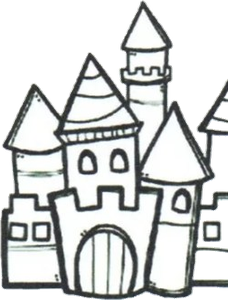
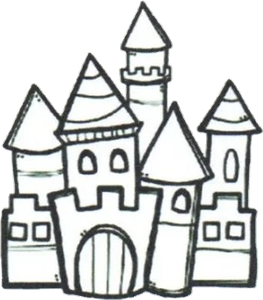
Atualiza a atividade

diff --git a/index.html b/index.html
@@ -2550,7 +2550,7 @@ var CART = {
 /* ⚠ A MARCA DE VERSÃO NA FIGURA. Quando eu troco uma figura, o NOME do arquivo
    continua o mesmo — e o navegador da escola serve a cópia velha do cache.
    REGRA: mexeu em figura, sobe o VIMG no mesmo commit. */
-var VIMG = 2;
+var VIMG = 3;
 /* ⚠⚠ `draggable="false"` NÃO É DETALHE: toda imagem é arrastável de fábrica no
    navegador, e quando a criança apertava a figura e puxava, o Chrome começava o
    SEU arrasto nativo e disparava um `pointercancel` — o nosso arrasto morria no
